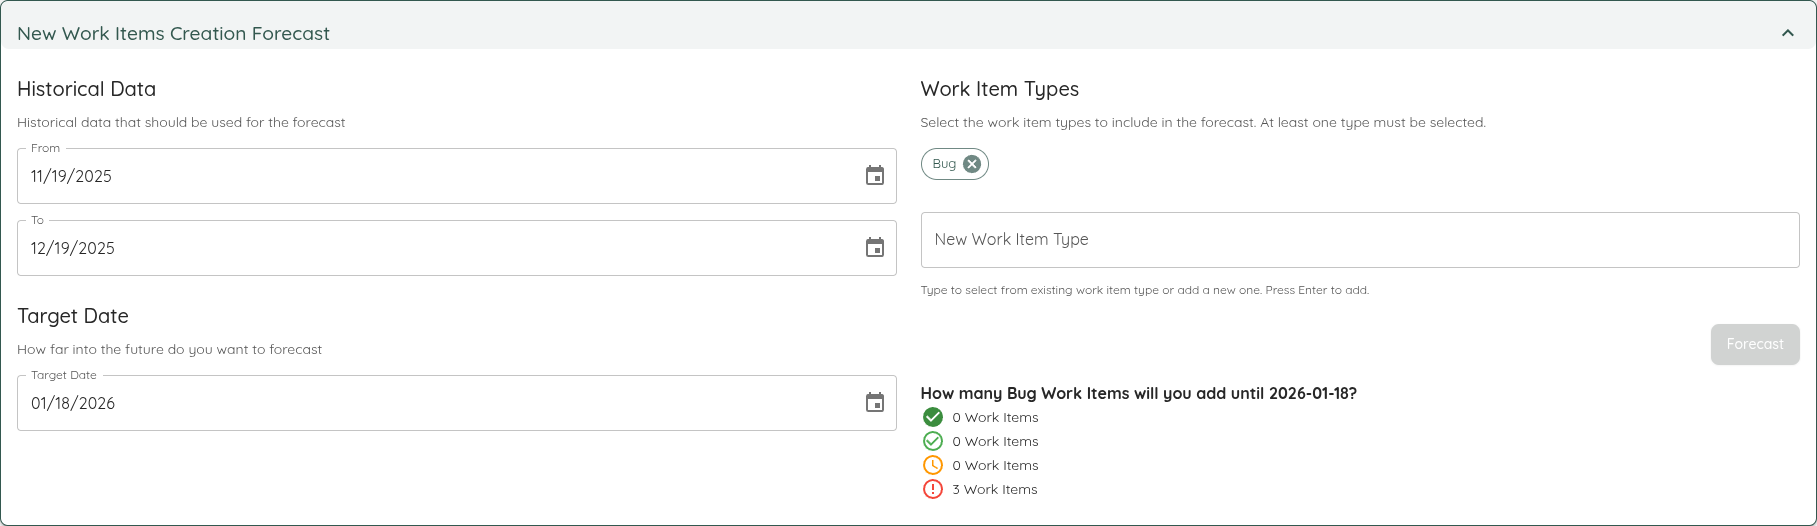
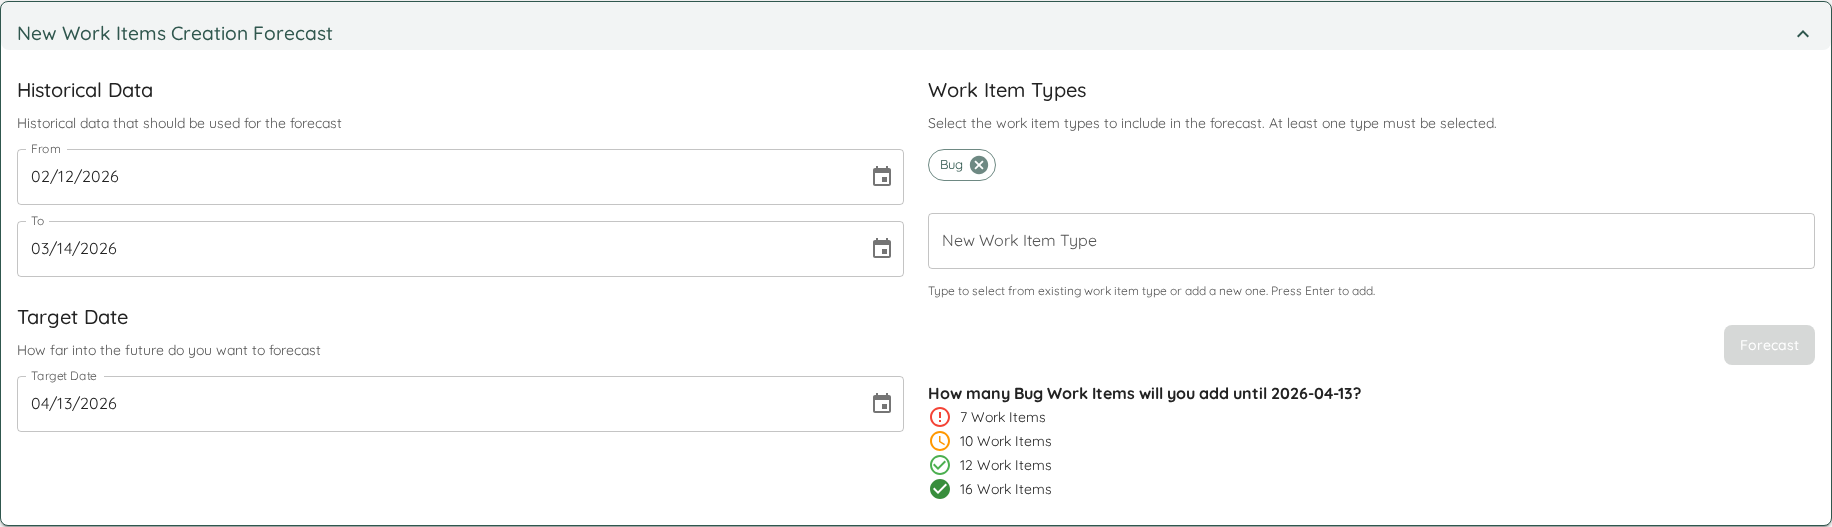
Update release notes and documentation for New Item Forecasting improvements

diff --git a/docs/releasenotes/releasenotes.md b/docs/releasenotes/releasenotes.md
@@ -4,6 +4,30 @@ layout: home
 nav_order: 95
 ---
 
+# Lighthouse v26.3.13.16
+
+## Invert Percentiles for New Item Forecasting
+The percentile display for the *New Item Forecasting* feature has been inverted. Previously, the percentiles were shown in a way that could be confusing. They are now displayed in a more intuitive order, making it easier to interpret the forecast results at a glance. This means, you read it now as follows: There is a *yy% chance* that we create *x items or less*
+
+This means that the higher the percentiles, the higher the number. The less risk you want to have, the more items you should be expecting.
+
+![Work Item Creation Forecast](https://raw.githubusercontent.com/LetPeopleWork/Lighthouse/refs/heads/main/docs/assets/features/creationforecast.png)
+
+## Other Improvements and Bug Fixes
+- Fixed an issue where the *Parent Override* setting was not being applied correctly on Azure DevOps connections and caused the update of teams to get stuck
+- Fixed an issue where *Involved Teams* were not respecting the Ownership Settings configured on a Portfolio
+- Fixed an issue where the automatic update of Portfolios was not refreshing the Features, causing stale data to be displayed
+- Fixed an issue in *MCS Backtesting* where the start date of the backtesting period was incorrectly included in both the Historical Throughput and the Actual Throughput charts
+- Updated various third party dependencies
+
+## Contributions ❤
+Special thanks to everyone who contributed feedback for this release:
+- [Lorenzo Santoro](https://www.linkedin.com/in/lorenzo-santoro-57172626/)
+- [Agnieszka Reginek](https://www.linkedin.com/in/agnieszka-reginek/)
+- [Gabor Bittera](https://www.linkedin.com/in/gaborbittera/)
+
+[**Full Changelog**](https://github.com/LetPeopleWork/Lighthouse/compare/v26.3.9.4...v26.3.13.16)
+
 # Lighthouse v26.3.9.4
 
 ## Improvements for Write Back to Work Tracking Systems Functionality

diff --git a/docs/teams/detail.md b/docs/teams/detail.md
@@ -105,10 +105,10 @@ This allows you to forecast a scenario like this one:
 *Based on the last 90 days, how many new bugs can we expect in the next 30 days?*
 
 The result will be a probabilistic one, where you get the usual percentiles:
-- 50% chance you will get 5 or more
-- 70% chance you will get 4 or more
-- 85% chance you will get 3 or more
-- 95% chance you will get 2 or more
+- 95% chance you will get 5 or less
+- 85% chance you will get 4 or less
+- 70% chance you will get 3 or less
+- 50% chance you will get 2 or less
 
 That may help you plan for the not plannable, as you can see that, based on your past, you will will have a good chance of 4 bug items making it into your backlog.
 
